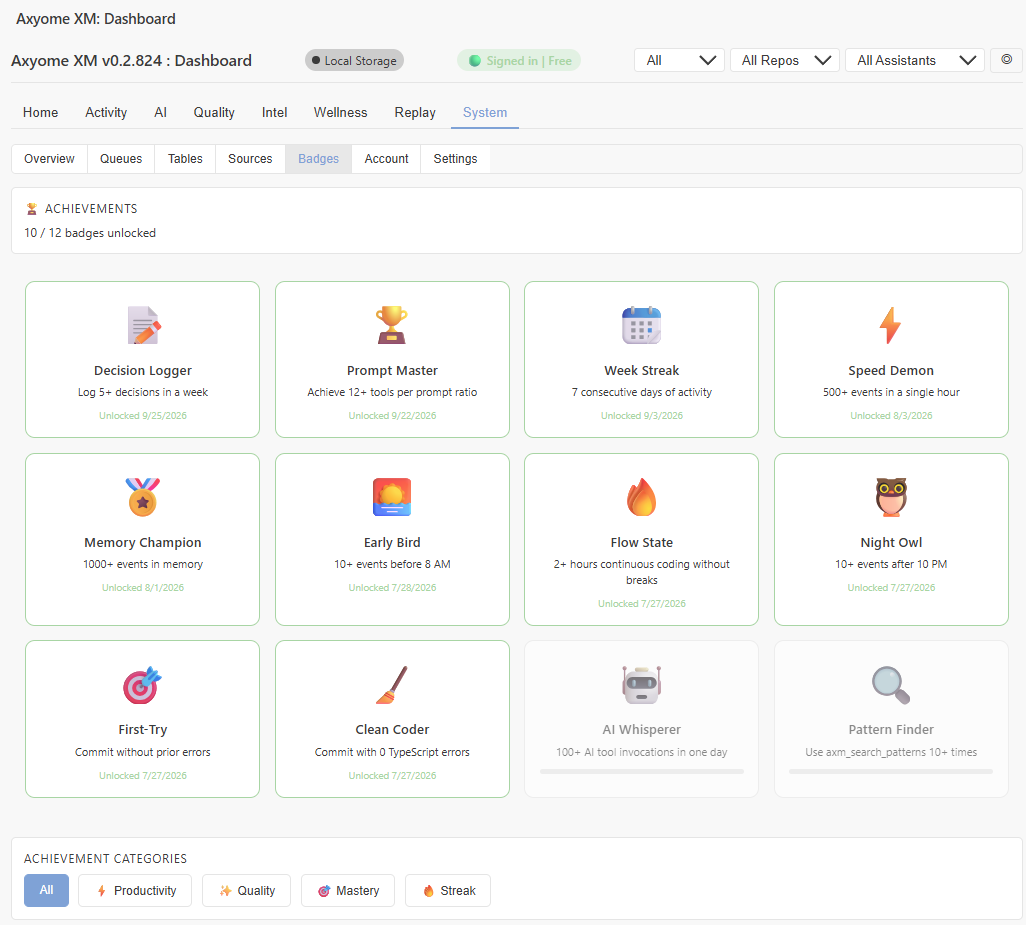
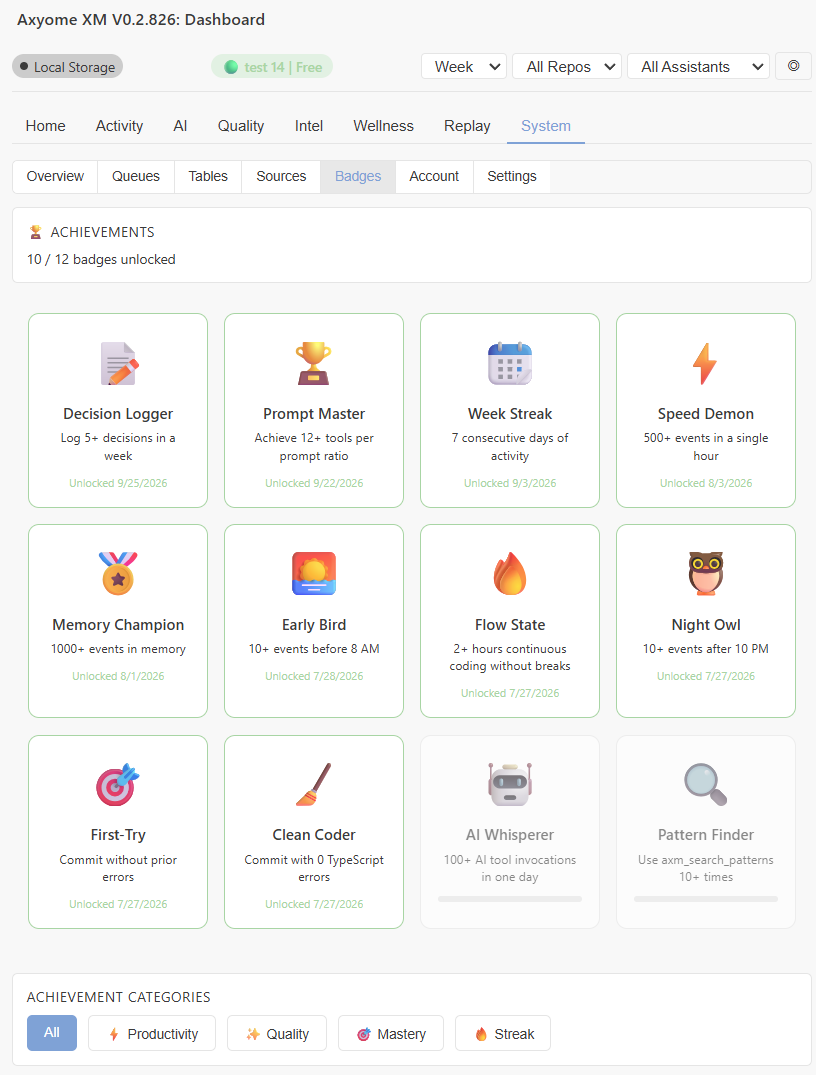
docs: refresh dashboard screenshots from 0.2.826 at normal sidebar width
- All 11 images recaptured at a normal sidebar width (816 px wide, was
  ~1026), now including the view title bar with the running version.
- The screenshots reflect 0.2.825/0.2.826: no duplicated in-page title,
  no Home engagement calendar, no descriptive labels.
- dashboard.md: version/date updated; AI and Intel descriptions match
  what the tabs show now.

diff --git a/docs/dashboard.md b/docs/dashboard.md
@@ -18,8 +18,10 @@ every tab. Most tabs cover both GitHub Copilot and Claude Code.
 | **Replay** | Time Machine, Map, Wiki, Use |
 | **System** | Overview, Queues, Tables, Sources, Badges, Account, Settings |
 
-Screenshots below were captured from Axyome XM 0.2.824 on 2026-09-26 with real
-activity data. Panels that list file paths or personal notes were cropped out.
+Screenshots below were captured from Axyome XM 0.2.826 on 2026-09-27 with real
+activity data, at a normal sidebar width. The title bar shows the running version
+(VS Code capitalises view titles, so it reads "V0.2.826"). Panels that list file
+paths or personal notes were cropped out.
 
 ---
 
@@ -43,8 +45,10 @@ history, a heatmap, a live feed and a unified timeline.
 
 ## AI
 
-Side-by-side comparison of GitHub Copilot and Claude Code: sessions, tool
-calls, tokens, top tools, authorship and the AI Tool Index (ATI).
+Authorship, AI agent tool success, AI-correlated code quality and the AI Tool
+Index (ATI). When both GitHub Copilot and Claude Code have activity in the
+selected range, a side-by-side comparison of the two assistants is shown too.
+The other sub-tabs cover sessions, models, time and value.
 
 ![AI tab - Overview](images/dashboard-ai.png)
 
@@ -61,8 +65,8 @@ code quality indicators.
 
 ## Intel
 
-The Developer Intelligence score and its four pillars: Velocity, Reliability,
-Efficiency and Learning. Each pillar says which inputs were captured.
+The Developer Intelligence score, your level, and the four pillars: Velocity,
+Reliability, Efficiency and Learning, each with its trend.
 
 ![Intel tab - Score](images/dashboard-intel.png)
 
